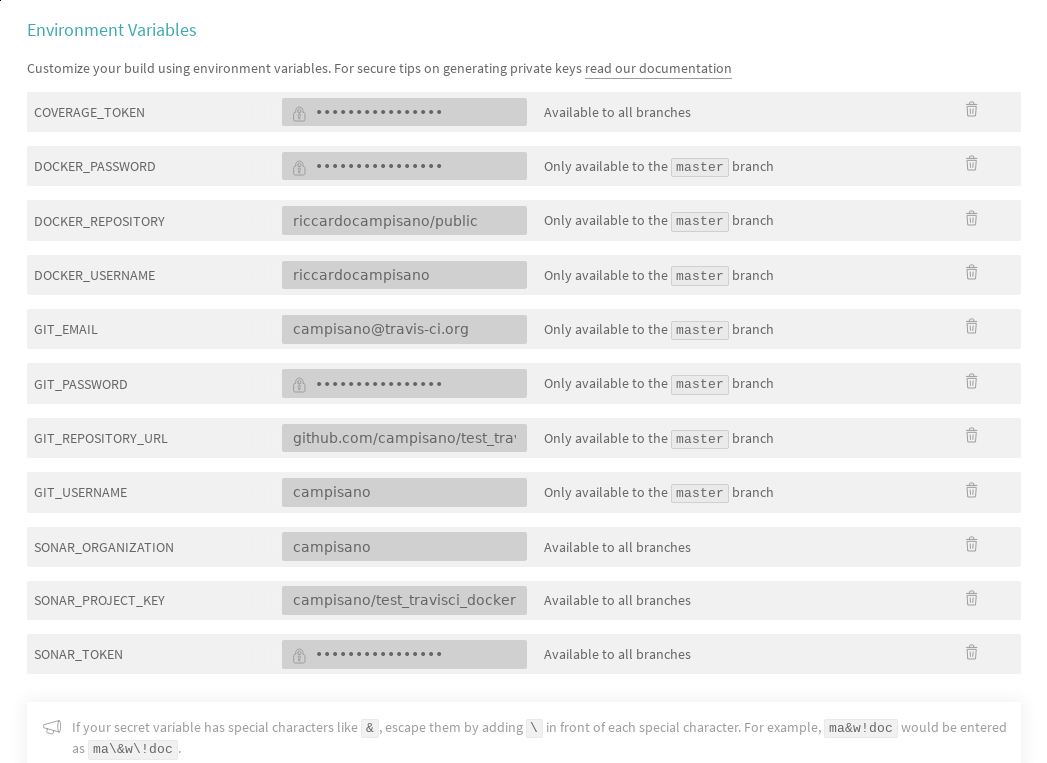
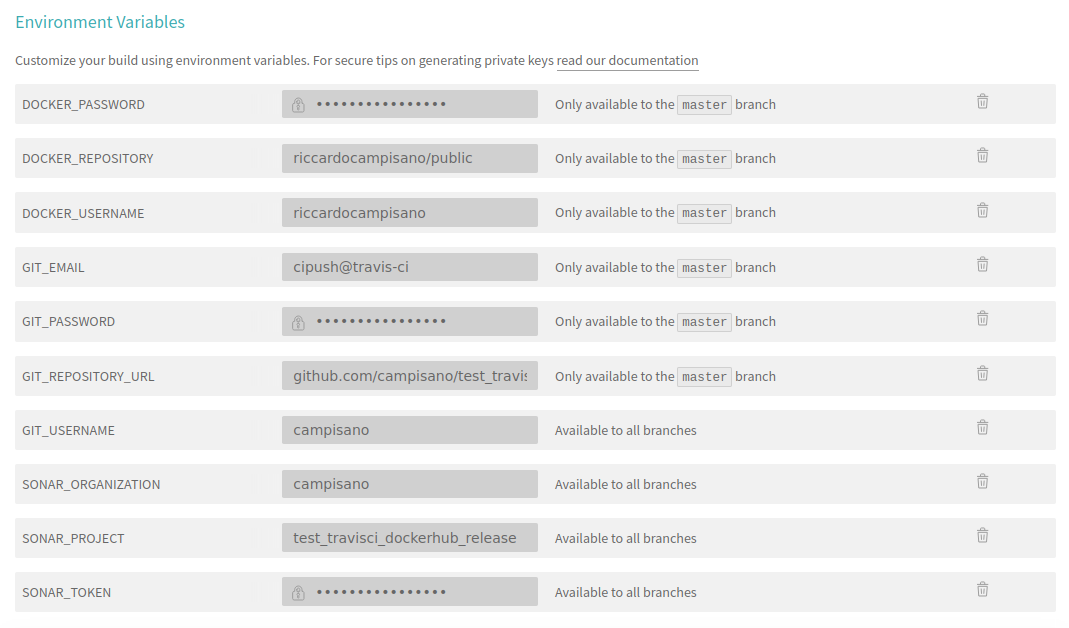
fix:        ci - -
fix sonar project env var name

diff --git a/README.md b/README.md
@@ -48,7 +48,7 @@ This project shows how to setup a pipeline using travis-ci to:
     - GIT_REPOSITORY_URL
     - SONAR_ORGANIZATION
     - SONAR_TOKEN
-    - SONAR_PROJECT_KEY
+    - SONAR_PROJECT
     - COVERAGE_TOKEN
 
 2) edit the scripts in the `./ci/custom` folder
